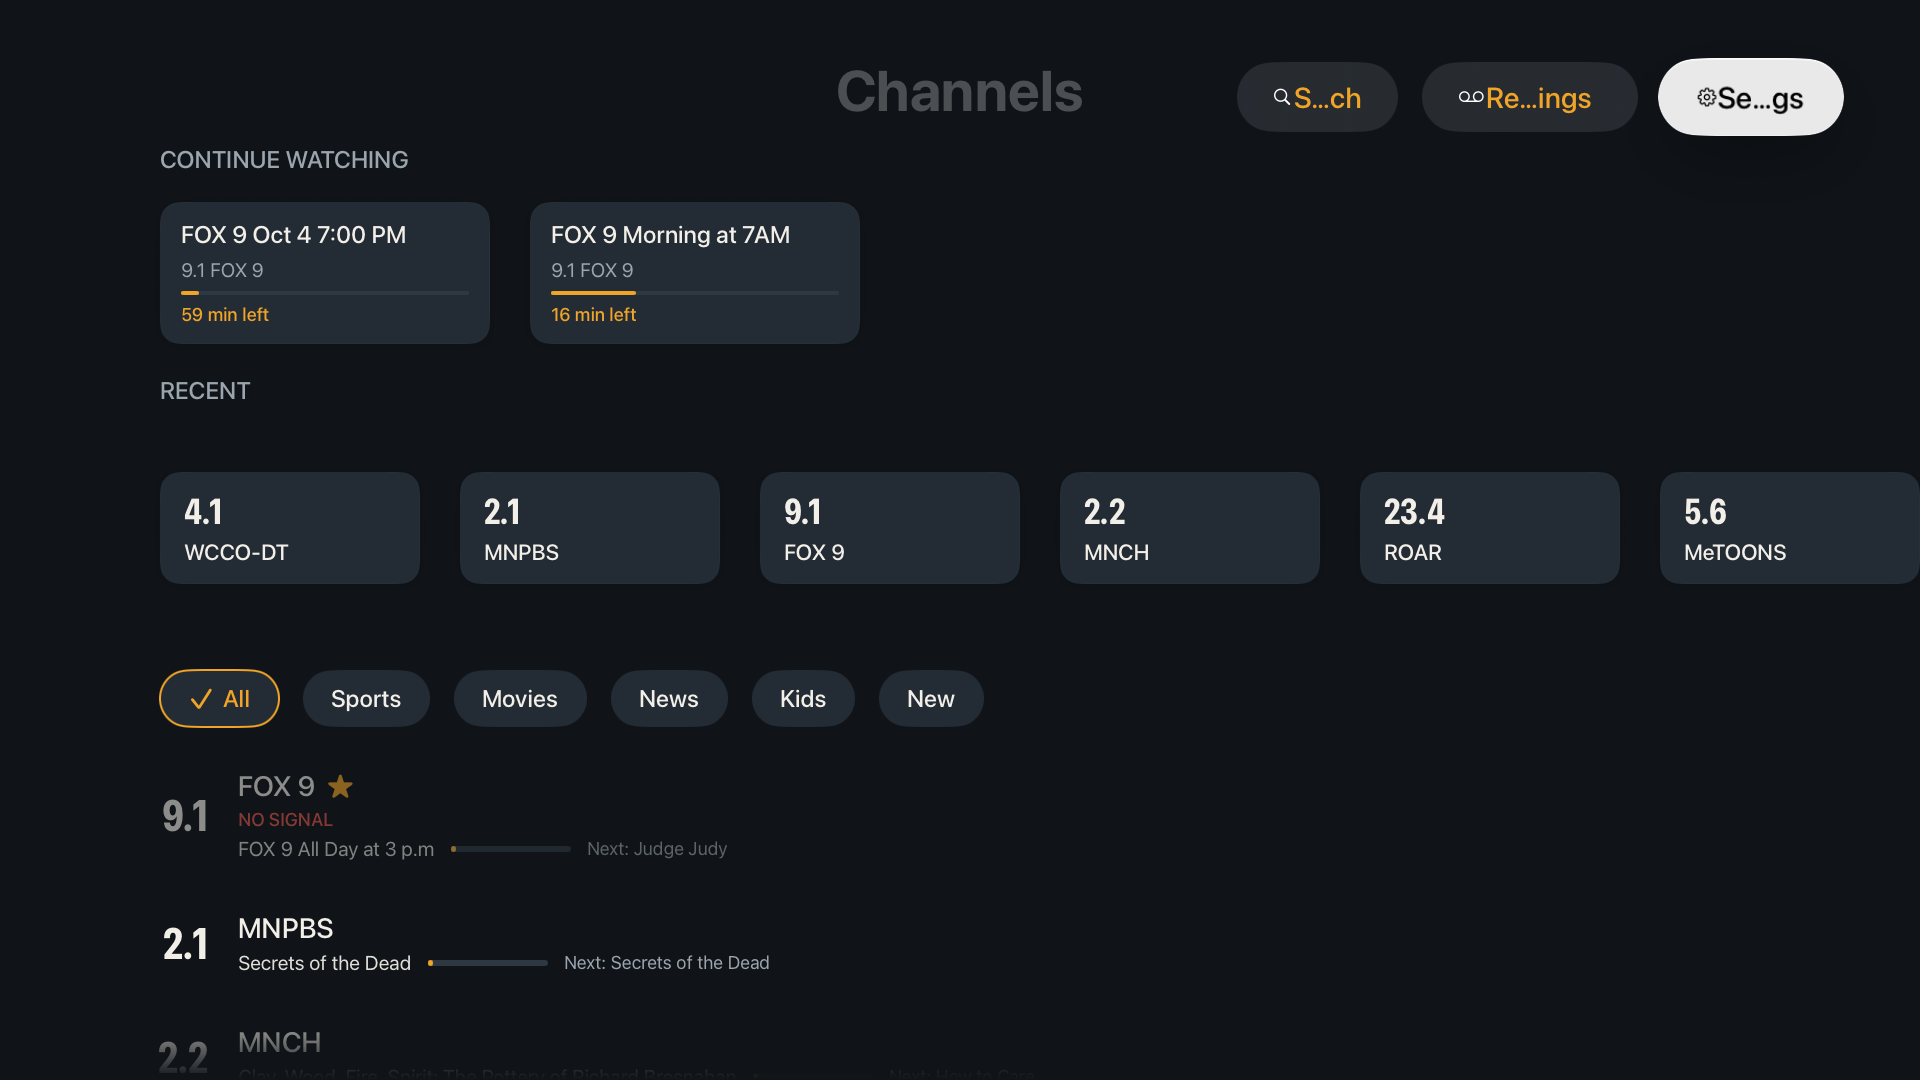
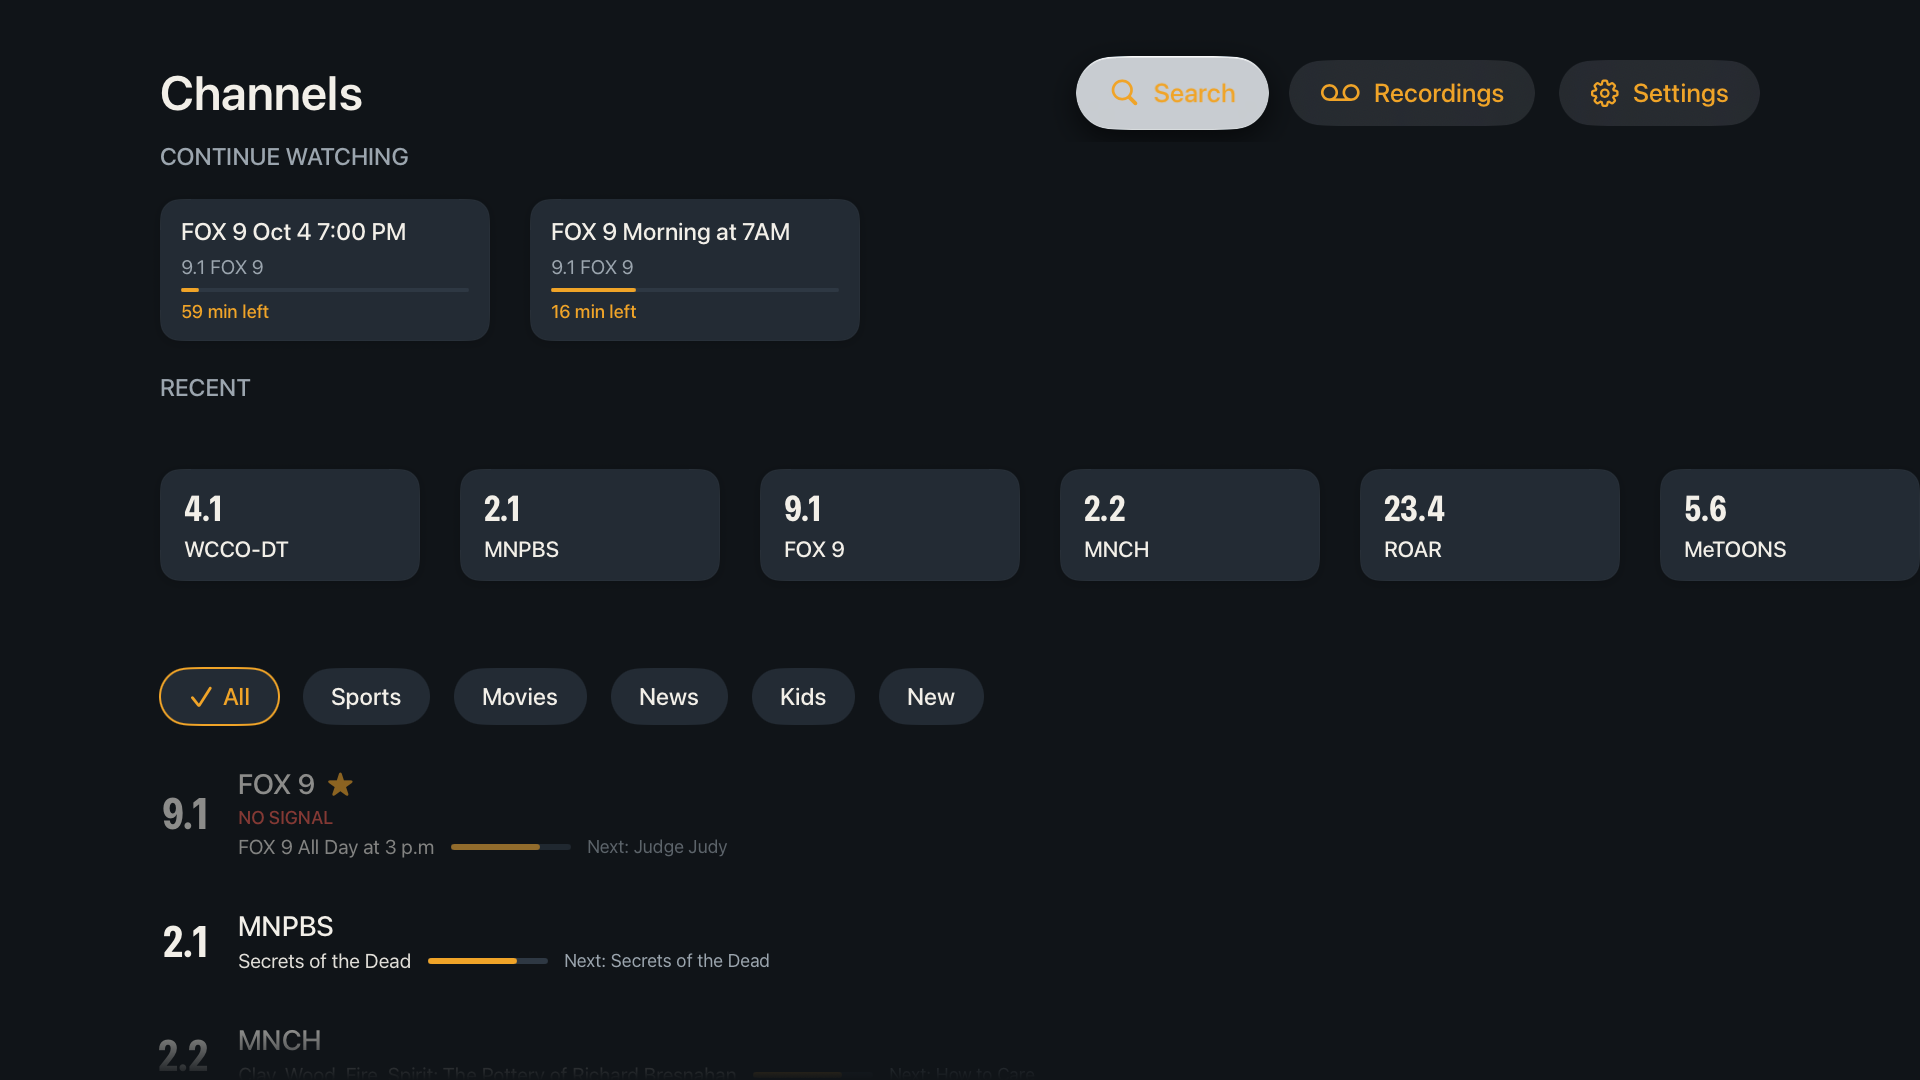
fix(tvos): Channels buttons in a header row; changelog for 0.26.0
tvOS 27 truncates titled toolbar buttons ("S…ch", "Re…ings"), even plain
system ones, so the Channels screen hides its navigation bar and shows the
title with Search, Recordings and Settings in its own focus-section row.
Retake the Apple TV screenshots. Drop the template Windows.Universal device
family so the Windows package targets desktop only. Add the 0.26.0 heading,
which Xcode Cloud reads for the app version.

diff --git a/ios/App/tvOS/ChannelRailView.swift b/ios/App/tvOS/ChannelRailView.swift
@@ -34,102 +34,73 @@ struct ChannelRailView: View {
 
     var body: some View {
         NavigationStack {
-            content
-                .navigationTitle("Channels")
-                .toolbar {
-                    ToolbarItem(placement: .primaryAction) {
-                        Button {
-                            showSearch = true
-                        } label: {
-                            Label("Search", systemImage: "magnifyingglass")
-                                .labelStyle(.titleAndIcon)
-                                .foregroundStyle(Theme.amber)
-                        }
-                        .accessibilityLabel("Search")
-                        .accessibilityHint("Search the guide")
-                    }
-                    ToolbarItem(placement: .primaryAction) {
-                        Button {
-                            showRecordings = true
-                        } label: {
-                            Label("Recordings", systemImage: "recordingtape")
-                                .labelStyle(.titleAndIcon)
-                                .foregroundStyle(Theme.amber)
-                        }
-                        .accessibilityLabel("Recordings")
-                        .accessibilityHint("Open your recordings")
-                    }
-                    ToolbarItem(placement: .primaryAction) {
-                        Button {
-                            showSettings = true
-                        } label: {
-                            Label("Settings", systemImage: "gearshape")
-                                .labelStyle(.titleAndIcon)
-                                .foregroundStyle(Theme.amber)
-                        }
-                        .accessibilityLabel("Settings")
-                        .accessibilityHint("Open server and account settings")
-                    }
-                }
-                .navigationDestination(item: $playingChannel) { channel in
-                    if let serverURL = appModel.serverURL {
-                        TVPlayerView(
-                            channel: channel,
-                            serverURL: serverURL,
-                            maxQuality: appModel.user?.maxQuality ?? "",
-                            nowTitle: nowTitle(for: channel),
-                            programEnd: { programEnd(for: $0) },
-                            playerModel: playerModel
-                        )
-                    } else {
-                        VStack(spacing: 20) {
-                            Text("Not connected to a server")
-                                .font(Theme.body(22))
-                                .foregroundStyle(Theme.alert)
-                            Button("Back") { playingChannel = nil }
-                                .foregroundStyle(Theme.amber)
-                        }
-                        .bowtieScreenBackground()
-                    }
-                }
-                .navigationDestination(isPresented: $showRecordings) {
-                    if let client = appModel.client {
-                        TVRecordingsView(client: client, playerModel: playerModel)
-                    }
-                }
-                .navigationDestination(isPresented: $showSearch) {
-                    searchDestination
-                }
-                .navigationDestination(item: $activePlayback) { item in
-                    if let recordingsModel {
-                        TVRecordingPlayerView(playback: item.playback, model: recordingsModel)
-                    }
-                }
-                .alert(
-                    "Something Went Wrong",
-                    isPresented: Binding(
-                        get: { recordingsModel?.actionError != nil },
-                        set: { if !$0 { recordingsModel?.actionError = nil } }
+            VStack(alignment: .leading, spacing: 0) {
+                header
+                content
+            }
+            .bowtieScreenBackground()
+            // tvOS 27 truncates titled toolbar buttons ("S…ch", "Re…ings"),
+            // so the title and buttons are a header row on this screen.
+            .toolbar(.hidden, for: .navigationBar)
+            .navigationDestination(item: $playingChannel) { channel in
+                if let serverURL = appModel.serverURL {
+                    TVPlayerView(
+                        channel: channel,
+                        serverURL: serverURL,
+                        maxQuality: appModel.user?.maxQuality ?? "",
+                        nowTitle: nowTitle(for: channel),
+                        programEnd: { programEnd(for: $0) },
+                        playerModel: playerModel
                     )
-                ) {
-                    Button("OK", role: .cancel) {}
-                } message: {
-                    Text(recordingsModel?.actionError ?? "")
-                }
-                .recordFlowAlerts(recordFlow)
-                .presentsGroupPlayback(playerModel, playingChannel: $playingChannel)
-                .sheet(isPresented: $showSettings) {
-                    NavigationStack {
-                        SettingsView(appModel: appModel)
-                            .toolbar {
-                                ToolbarItem(placement: .cancellationAction) {
-                                    Button("Done") { showSettings = false }
-                                        .foregroundStyle(Theme.amber)
-                                        .accessibilityLabel("Done")
-                                }
-                            }
+                } else {
+                    VStack(spacing: 20) {
+                        Text("Not connected to a server")
+                            .font(Theme.body(22))
+                            .foregroundStyle(Theme.alert)
+                        Button("Back") { playingChannel = nil }
+                            .foregroundStyle(Theme.amber)
                     }
+                    .bowtieScreenBackground()
                 }
+            }
+            .navigationDestination(isPresented: $showRecordings) {
+                if let client = appModel.client {
+                    TVRecordingsView(client: client, playerModel: playerModel)
+                }
+            }
+            .navigationDestination(isPresented: $showSearch) {
+                searchDestination
+            }
+            .navigationDestination(item: $activePlayback) { item in
+                if let recordingsModel {
+                    TVRecordingPlayerView(playback: item.playback, model: recordingsModel)
+                }
+            }
+            .alert(
+                "Something Went Wrong",
+                isPresented: Binding(
+                    get: { recordingsModel?.actionError != nil },
+                    set: { if !$0 { recordingsModel?.actionError = nil } }
+                )
+            ) {
+                Button("OK", role: .cancel) {}
+            } message: {
+                Text(recordingsModel?.actionError ?? "")
+            }
+            .recordFlowAlerts(recordFlow)
+            .presentsGroupPlayback(playerModel, playingChannel: $playingChannel)
+            .sheet(isPresented: $showSettings) {
+                NavigationStack {
+                    SettingsView(appModel: appModel)
+                        .toolbar {
+                            ToolbarItem(placement: .cancellationAction) {
+                                Button("Done") { showSettings = false }
+                                    .foregroundStyle(Theme.amber)
+                                    .accessibilityLabel("Done")
+                            }
+                        }
+                }
+            }
         }
         .preferredColorScheme(.dark)
         .task {
@@ -213,6 +184,44 @@ struct ChannelRailView: View {
     }
 
     // MARK: - Content
+
+    /// "Channels" with Search, Recordings and Settings; its own focus
+    /// section, so Up from the top of the rail reaches the buttons.
+    private var header: some View {
+        HStack(spacing: 24) {
+            Text("Channels")
+                .font(Theme.title(48))
+                .foregroundStyle(Theme.text)
+                .accessibilityAddTraits(.isHeader)
+            Spacer()
+            headerButton("Search", systemImage: "magnifyingglass", hint: "Search the guide") {
+                showSearch = true
+            }
+            headerButton("Recordings", systemImage: "recordingtape", hint: "Open your recordings") {
+                showRecordings = true
+            }
+            headerButton("Settings", systemImage: "gearshape", hint: "Open server and account settings") {
+                showSettings = true
+            }
+        }
+        .padding(.horizontal, 80)
+        .padding(.bottom, 16)
+        .focusSection()
+    }
+
+    private func headerButton(
+        _ title: String, systemImage: String, hint: String, action: @escaping () -> Void
+    ) -> some View {
+        Button(action: action) {
+            Label(title, systemImage: systemImage)
+                .labelStyle(.titleAndIcon)
+                .font(Theme.label(26))
+                .foregroundStyle(Theme.amber)
+                .fixedSize()
+        }
+        .accessibilityLabel(title)
+        .accessibilityHint(hint)
+    }
 
     @ViewBuilder
     private var content: some View {

diff --git a/CHANGELOG.md b/CHANGELOG.md
@@ -7,6 +7,8 @@ and this project aims to follow [Semantic Versioning](https://semver.org/).
 
 ## [Unreleased]
 
+## [0.26.0] — 2026-10-13
+
 ### Added
 
 - **Xbox: favorites in place, slow starts and reception notes.** Favorites
@@ -36,6 +38,22 @@ and this project aims to follow [Semantic Versioning](https://semver.org/).
   opens in a window, and only the player goes full screen. With the
   Microsoft Store identity set, the Xbox workflow also builds a Store
   upload targeting Xbox for the same Store product as the Windows app.
+
+### Changed
+
+- **Ready for the App Store and Microsoft Store.** The Apple apps carry a
+  privacy manifest (no tracking, no data collected) and explain why they
+  ask for local network access. The Windows app now targets desktop PCs
+  only. Store listing text and screenshots are in `docs/store/`.
+
+### Fixed
+
+- **Apple TV: the Channels buttons show their full names.** On tvOS 27 the
+  Search, Recordings and Settings buttons were cut off ("S…ch"); they now
+  sit in a header row beside the Channels title.
+- **No empty band around Continue watching.** On iPhone, iPad and Mac the
+  shelf above the Recordings list no longer leaves tall blank space around
+  its cards.
 
 ## [0.25.1] — 2026-10-13
 

diff --git a/docs/store/apple-listing.md b/docs/store/apple-listing.md
@@ -91,7 +91,3 @@ product page header and search results art.
 
 They avoid playing video: App Review can object to recognizable broadcast
 shows in screenshots.
-
-Known issue: on tvOS 27 the Channels toolbar truncates its button titles
-("S…ch", "Re…ings"), which shows in `tv/`. Fix before submitting the tvOS
-platform.
